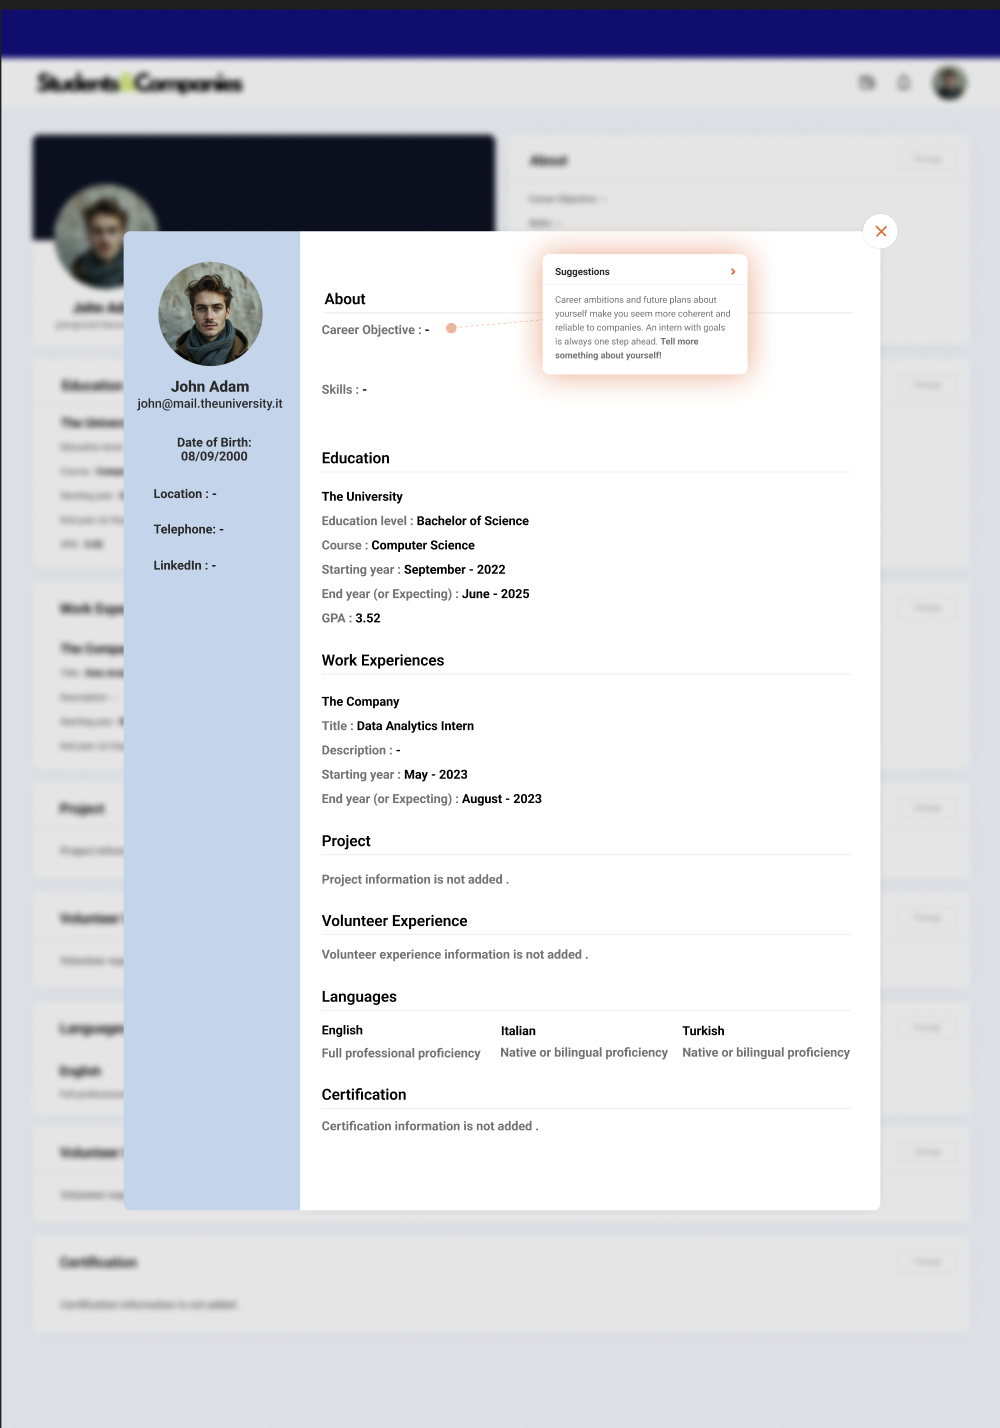
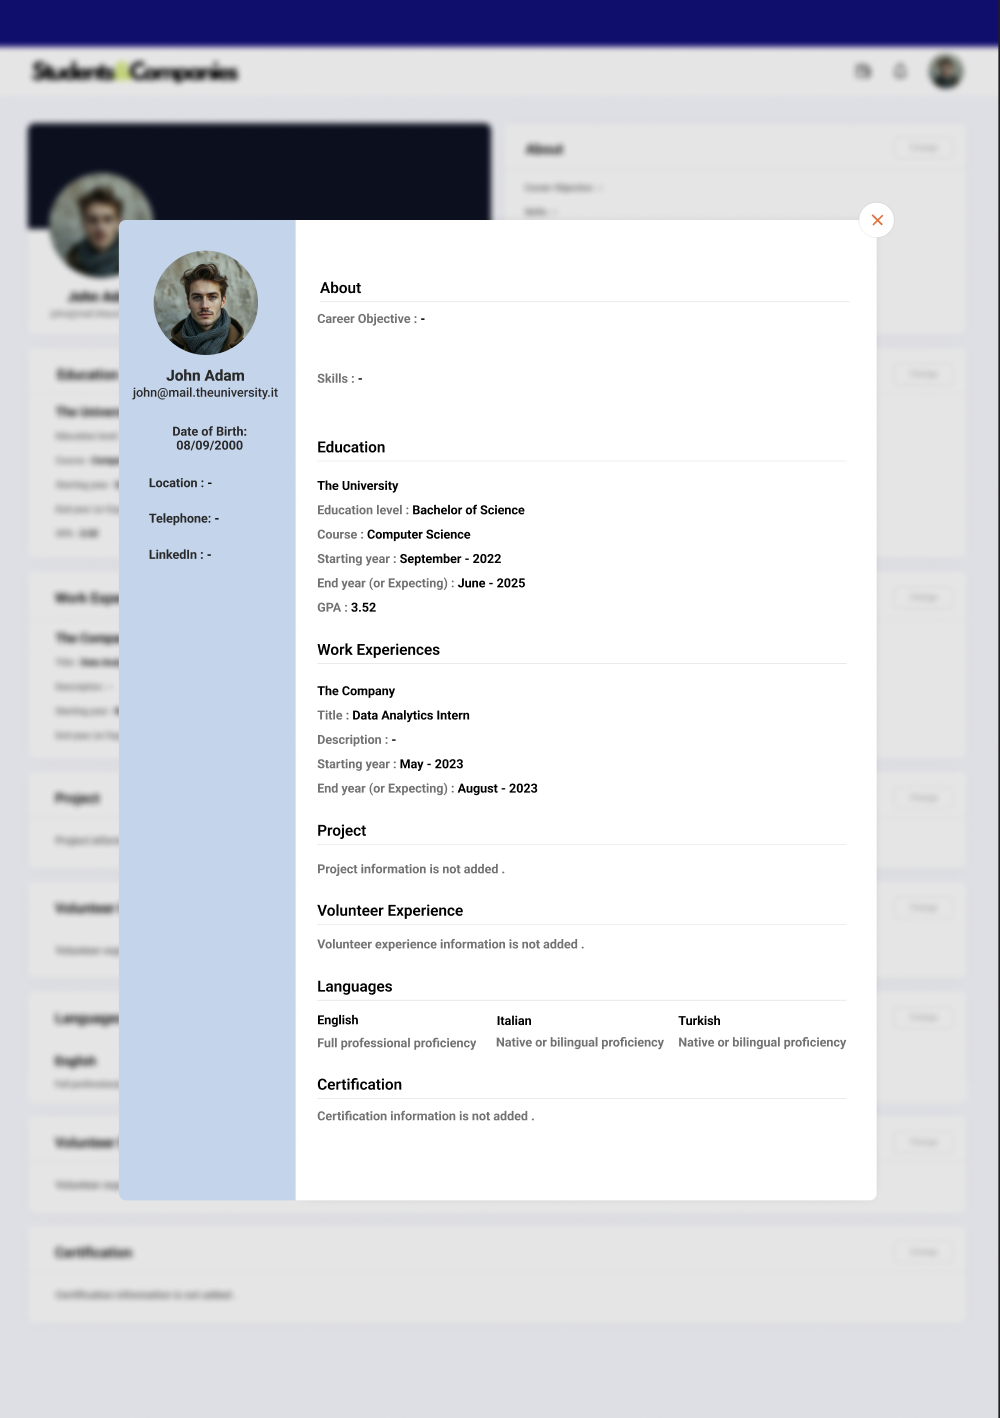
Updated suggestion sections

Changed region(s): [[0.0, 0.0, 1.0, 1.0], [0.496, 0.7137, 0.837, 0.7447]]

diff --git a/RASD.tex b/RASD.tex
@@ -475,7 +475,7 @@ In this section, the system aims to develop a user-friendly interface that align
 
 \begin{figure}[H]
     \centering
-    \includegraphics[scale = 0.42]{figures/UserInterfaces/Student/Complaints.png}
+    \includegraphics[scale = 0.42]{figures/UserInterfaces/Student/StudentComplaints.png}
     \caption{Student Ongoing Internship Complaints}
      \centering
 \end{figure}
@@ -515,6 +515,12 @@ In this section, the system aims to develop a user-friendly interface that align
 \end{figure}
 \begin{figure}[H]
     \centering
+    \includegraphics[scale = 0.42]{figures/UserInterfaces/Student/UploadCv.png}
+    \caption{Student Update CV}
+     \centering
+\end{figure}
+\begin{figure}[H]
+    \centering
     \includegraphics[scale = 0.42]{figures/UserInterfaces/Student/SuggestionNotification.png}
     \caption{Student Suggestions Notification}
      \centering
@@ -522,7 +528,7 @@ In this section, the system aims to develop a user-friendly interface that align
 \begin{figure}[H]
     \centering
     \includegraphics[scale = 0.65]{figures/UserInterfaces/Student/CVSuggestion.png}
-    \caption{Student CV Suggestions}
+    \caption{Student CV Suggestion Template}
      \centering
 \end{figure}
 
@@ -534,8 +540,8 @@ In this section, the system aims to develop a user-friendly interface that align
 \end{figure}
 \begin{figure}[H]
     \centering
-    \includegraphics[scale = 0.42]{figures/UserInterfaces/Company/AddSuggestions.png}
-    \caption{Company Advertisement Suggestions}
+    \includegraphics[scale = 0.42]{figures/UserInterfaces/Company/CompanySuggestion.png}
+    \caption{Company Advertisement Suggestion Template}
      \centering
 \end{figure}
 \begin{figure}[H]
